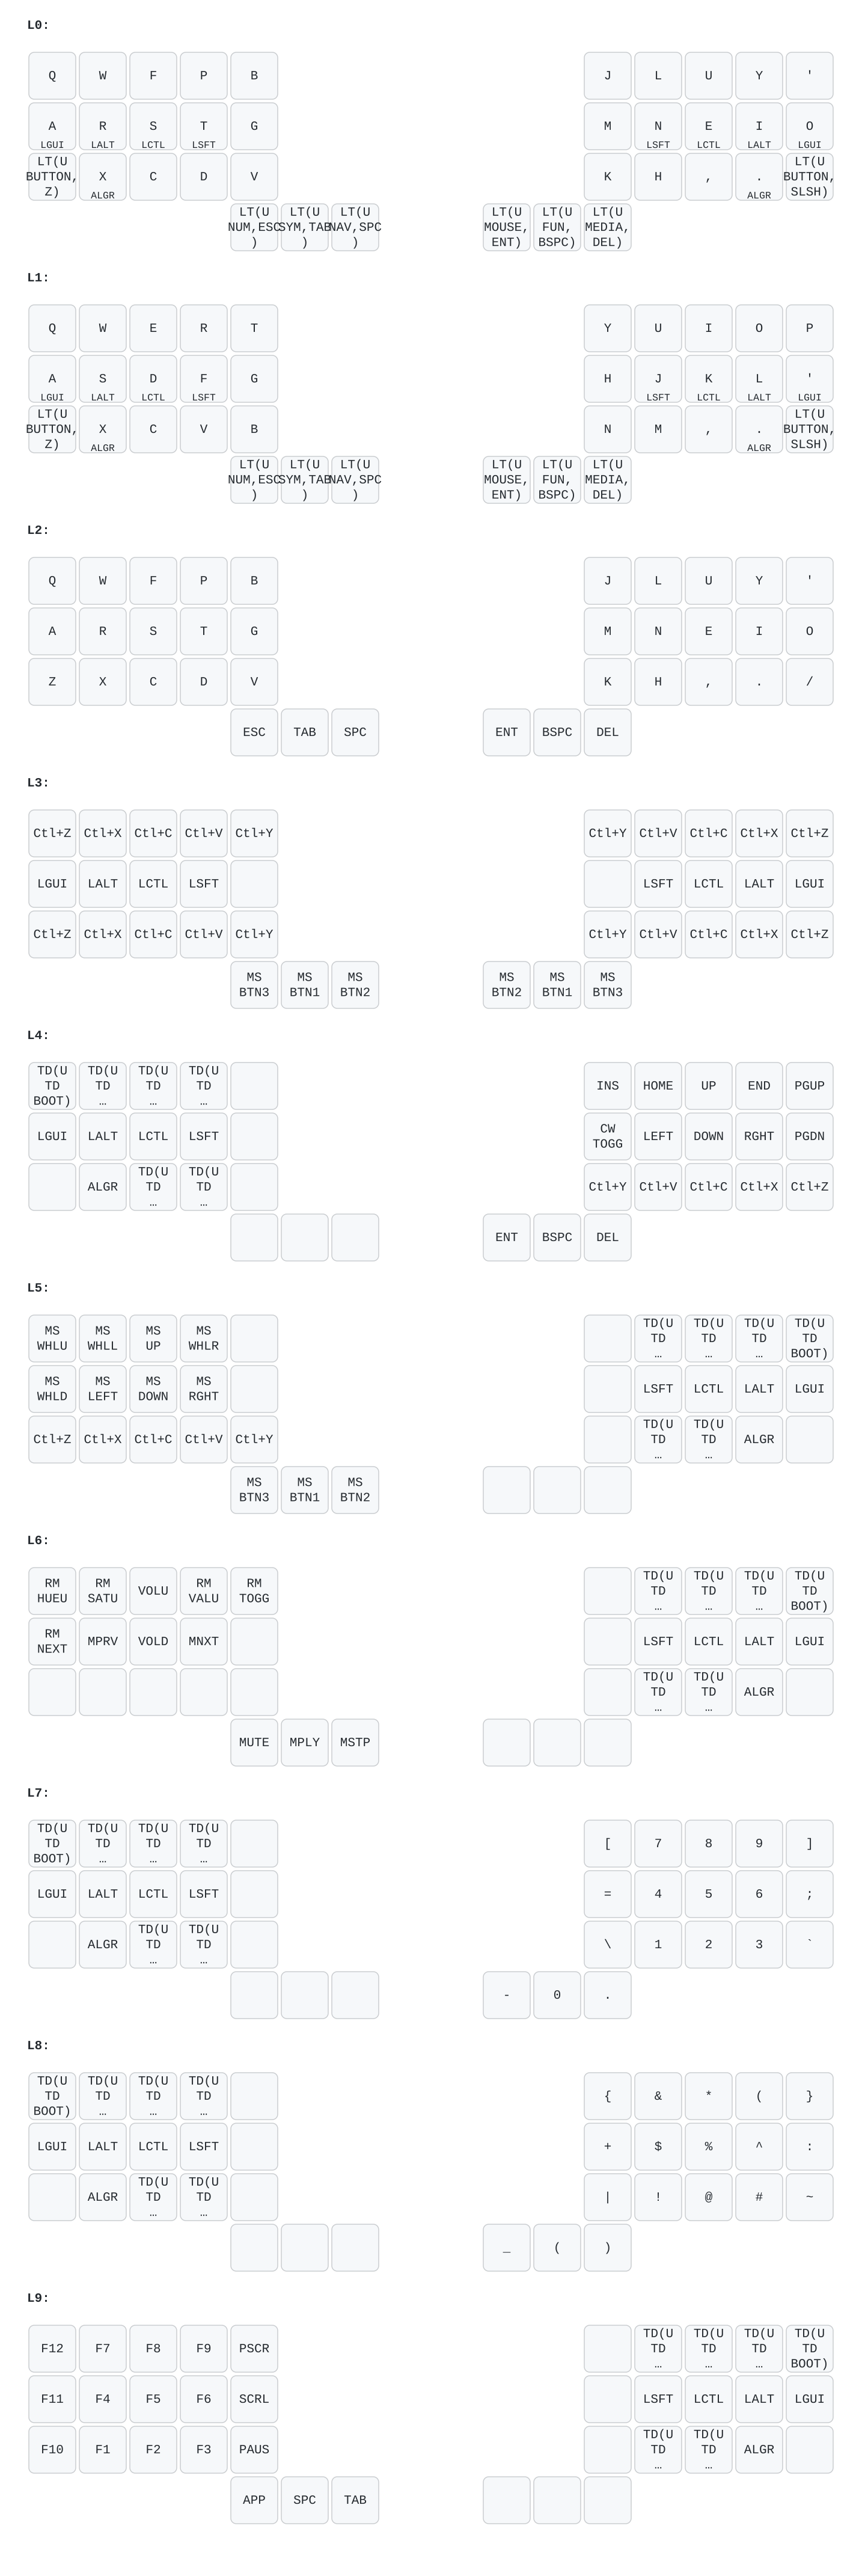
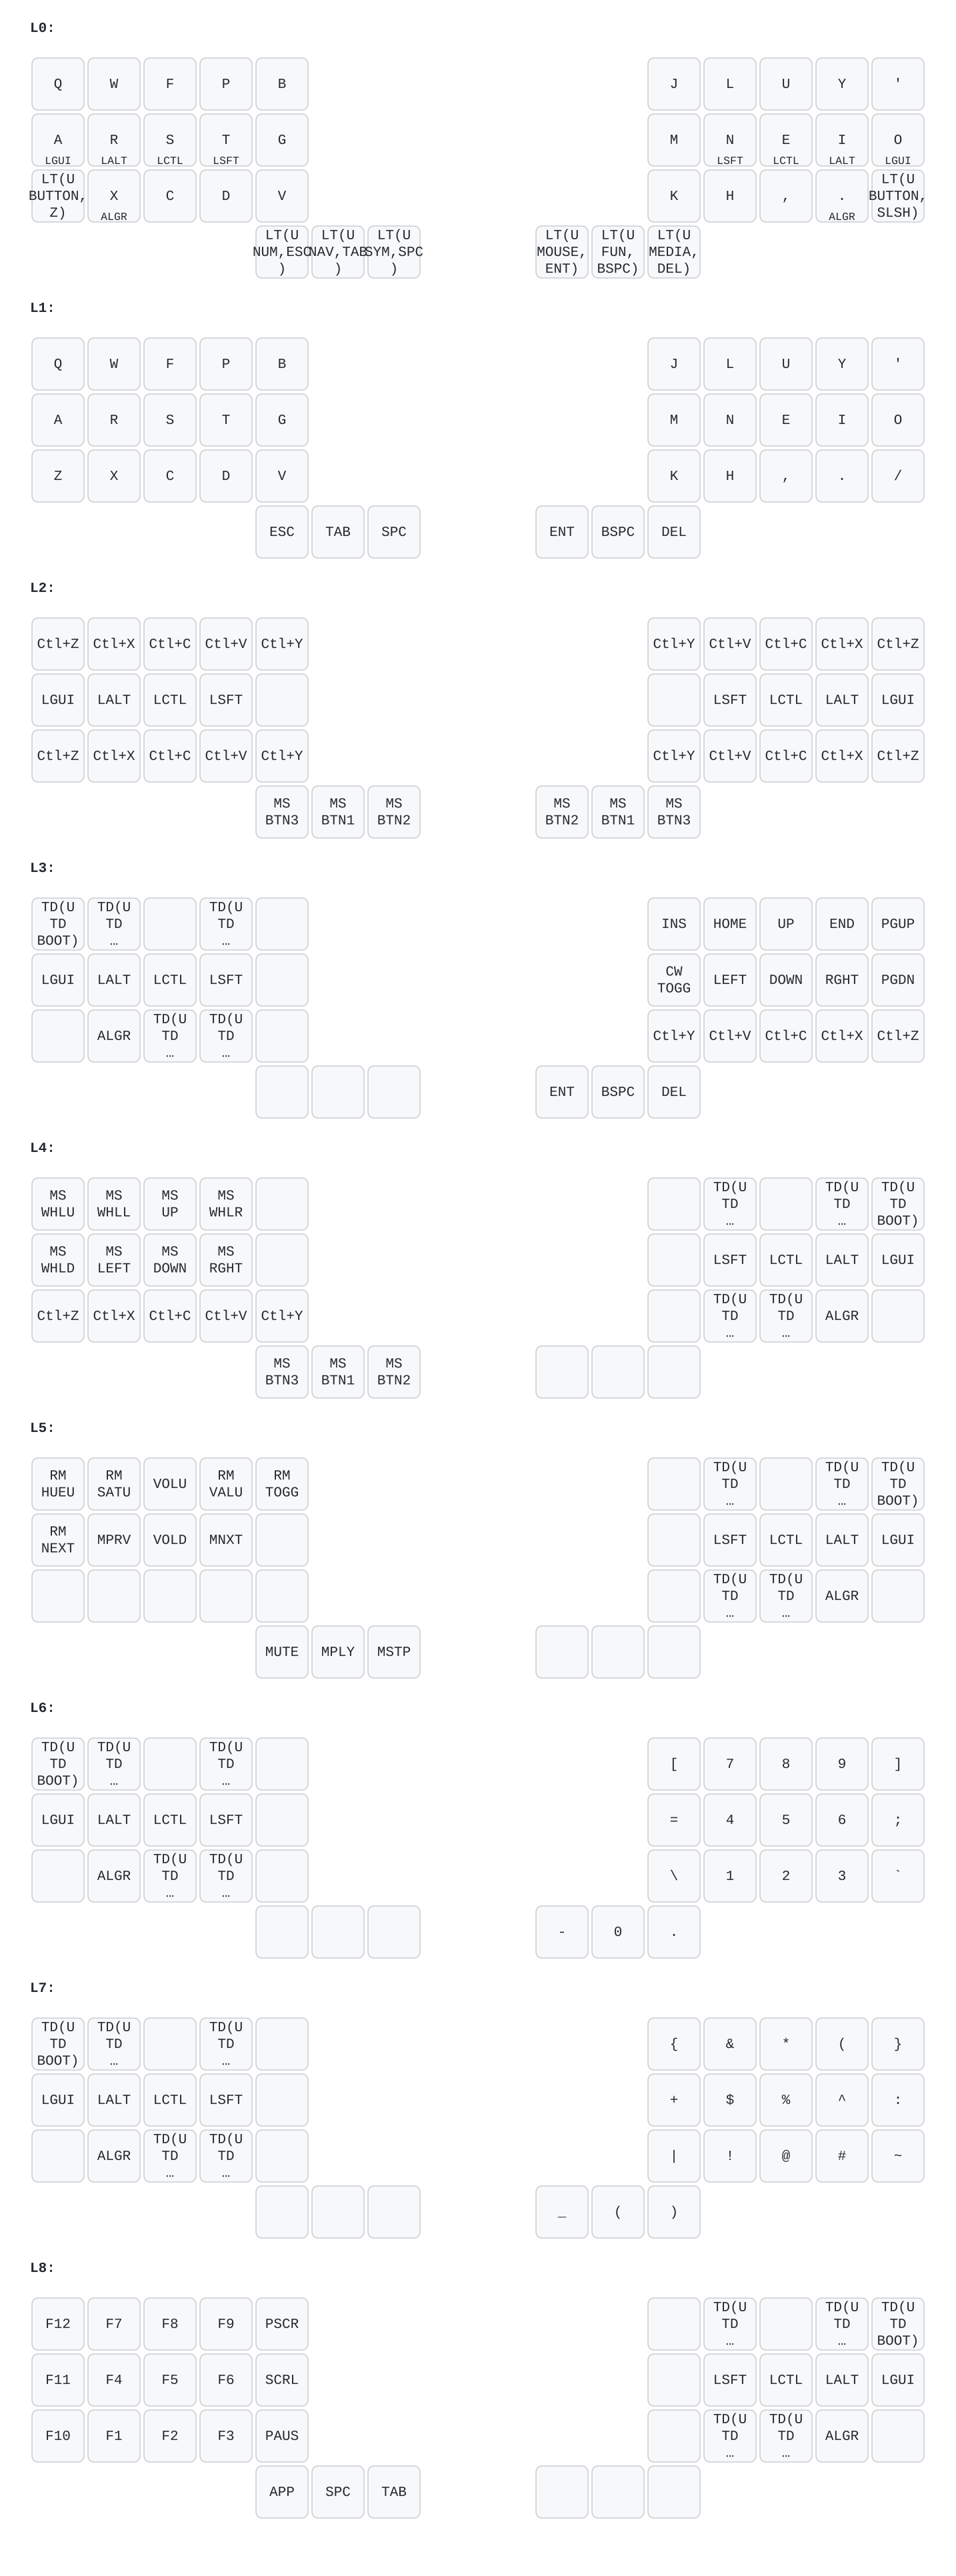
remove unused layer. tinkering with flowtap

diff --git a/keyboards/bastardkb/skeletyl/keymaps/barediver/keymap.c b/keyboards/bastardkb/skeletyl/keymaps/barediver/keymap.c
@@ -21,8 +21,7 @@
 
 enum miryoku_layers {
     U_BASE,
-    U_EXTRA,
-    U_TAP,
+    _TAP,
     U_BUTTON,
     U_NAV,
     U_MOUSE,
@@ -37,7 +36,6 @@ enum miryoku_layers {
 enum {
     U_TD_BOOT,
     U_TD_U_BASE,
-    U_TD_U_EXTRA,
     U_TD_U_TAP,
     U_TD_U_BUTTON,
     U_TD_U_NAV,
@@ -61,7 +59,6 @@ void u_td_fn_boot(tap_dance_state_t *state, void *user_data) {
         }                                                                   \
     }
 U_TD_LAYER(U_BASE)
-U_TD_LAYER(U_EXTRA)
 U_TD_LAYER(U_TAP)
 U_TD_LAYER(U_BUTTON)
 U_TD_LAYER(U_NAV)
@@ -74,7 +71,6 @@ U_TD_LAYER(U_FUN)
 tap_dance_action_t tap_dance_actions[] = {
     [U_TD_BOOT]      = ACTION_TAP_DANCE_FN(u_td_fn_boot),
     [U_TD_U_BASE]    = ACTION_TAP_DANCE_FN(u_td_fn_U_BASE),
-    [U_TD_U_EXTRA]   = ACTION_TAP_DANCE_FN(u_td_fn_U_EXTRA),
     [U_TD_U_TAP]     = ACTION_TAP_DANCE_FN(u_td_fn_U_TAP),
     [U_TD_U_BUTTON]  = ACTION_TAP_DANCE_FN(u_td_fn_U_BUTTON),
     [U_TD_U_NAV]     = ACTION_TAP_DANCE_FN(u_td_fn_U_NAV),
@@ -82,7 +78,7 @@ tap_dance_action_t tap_dance_actions[] = {
     [U_TD_U_MEDIA]   = ACTION_TAP_DANCE_FN(u_td_fn_U_MEDIA),
     [U_TD_U_NUM]     = ACTION_TAP_DANCE_FN(u_td_fn_U_NUM),
     [U_TD_U_SYM]     = ACTION_TAP_DANCE_FN(u_td_fn_U_SYM),
-    [U_TD_U_FUN]     = ACTION_TAP_DANCE_FN(u_td_fn_U_FUN),
+    [U_TD_U_FUN]     = ACTION_TAP_DANCE_FN(u_td_fn_U_FUN)
 };
 
 const uint16_t PROGMEM keymaps[][MATRIX_ROWS][MATRIX_COLS] = {
@@ -91,14 +87,7 @@ const uint16_t PROGMEM keymaps[][MATRIX_ROWS][MATRIX_COLS] = {
         KC_Q,              KC_W,         KC_F,         KC_P,             KC_B,              KC_J,              KC_L,              KC_U,            KC_Y,           KC_QUOT,
         LGUI_T(KC_A),      LALT_T(KC_R), LCTL_T(KC_S), LSFT_T(KC_T),     KC_G,              KC_M,              LSFT_T(KC_N),      LCTL_T(KC_E),    LALT_T(KC_I),   LGUI_T(KC_O),
         LT(U_BUTTON,KC_Z), ALGR_T(KC_X), KC_C,         KC_D,             KC_V,              KC_K,              KC_H,              KC_COMM,         ALGR_T(KC_DOT), LT(U_BUTTON,KC_SLSH),
-                                         LT(U_NUM,KC_ESC), LT(U_SYM,KC_TAB), LT(U_NAV,KC_SPC),  LT(U_MOUSE,KC_ENT), LT(U_FUN,KC_BSPC), LT(U_MEDIA,KC_DEL)
-    ),
-
-    [U_EXTRA] = LAYOUT_split_3x5_3(
-        KC_Q,              KC_W,         KC_E,         KC_R,             KC_T,              KC_Y,              KC_U,              KC_I,            KC_O,           KC_P,
-        LGUI_T(KC_A),      LALT_T(KC_S), LCTL_T(KC_D), LSFT_T(KC_F),     KC_G,              KC_H,              LSFT_T(KC_J),      LCTL_T(KC_K),    LALT_T(KC_L),   LGUI_T(KC_QUOT),
-        LT(U_BUTTON,KC_Z), ALGR_T(KC_X), KC_C,         KC_V,             KC_B,              KC_N,              KC_M,              KC_COMM,         ALGR_T(KC_DOT), LT(U_BUTTON,KC_SLSH),
-                                         LT(U_NUM,KC_ESC), LT(U_SYM,KC_TAB), LT(U_NAV,KC_SPC),  LT(U_MOUSE,KC_ENT), LT(U_FUN,KC_BSPC), LT(U_MEDIA,KC_DEL)
+                                         LT(U_NUM,KC_ESC), LT(U_NAV,KC_TAB), LT(U_SYM,KC_SPC),  LT(U_MOUSE,KC_ENT), LT(U_FUN,KC_BSPC), LT(U_MEDIA,KC_DEL)
     ),
 
     [U_TAP] = LAYOUT_split_3x5_3(
@@ -117,7 +106,7 @@ const uint16_t PROGMEM keymaps[][MATRIX_ROWS][MATRIX_COLS] = {
 
     // Nav: non-flip (held by left hand), inverted-T arrows on the right.
     [U_NAV] = LAYOUT_split_3x5_3(
-        TD(U_TD_BOOT), TD(U_TD_U_TAP), TD(U_TD_U_EXTRA), TD(U_TD_U_BASE), KC_NO,   KC_INS,  KC_HOME, KC_UP,   KC_END,  KC_PGUP,
+        TD(U_TD_BOOT), TD(U_TD_U_TAP), KC_NO, TD(U_TD_U_BASE), KC_NO,   KC_INS,  KC_HOME, KC_UP,   KC_END,  KC_PGUP,
         KC_LGUI,       KC_LALT,        KC_LCTL,          KC_LSFT,         KC_NO,   CW_TOGG, KC_LEFT, KC_DOWN, KC_RGHT, KC_PGDN,
         KC_NO,         KC_ALGR,        TD(U_TD_U_NUM),   TD(U_TD_U_NAV),  KC_NO,   C(KC_Y), C(KC_V), C(KC_C), C(KC_X), C(KC_Z),
                                        KC_NO,            KC_NO,           KC_NO,   KC_ENT,  KC_BSPC, KC_DEL
@@ -125,7 +114,7 @@ const uint16_t PROGMEM keymaps[][MATRIX_ROWS][MATRIX_COLS] = {
 
     // Mouse: flip (held by right hand).
     [U_MOUSE] = LAYOUT_split_3x5_3(
-        MS_WHLU, MS_WHLL, MS_UP, MS_WHLR, KC_NO,       KC_NO,   TD(U_TD_U_BASE),  TD(U_TD_U_EXTRA), TD(U_TD_U_TAP), TD(U_TD_BOOT),
+        MS_WHLU, MS_WHLL, MS_UP, MS_WHLR, KC_NO,       KC_NO,   TD(U_TD_U_BASE),  KC_NO, TD(U_TD_U_TAP), TD(U_TD_BOOT),
         MS_WHLD, MS_LEFT, MS_DOWN, MS_RGHT, KC_NO,       KC_NO,   KC_LSFT,          KC_LCTL,          KC_LALT,        KC_LGUI,
         C(KC_Z), C(KC_X), C(KC_C), C(KC_V), C(KC_Y),     KC_NO,   TD(U_TD_U_MOUSE), TD(U_TD_U_SYM),   KC_ALGR,        KC_NO,
                           MS_BTN3, MS_BTN1, MS_BTN2,     KC_NO,   KC_NO,            KC_NO
@@ -133,7 +122,7 @@ const uint16_t PROGMEM keymaps[][MATRIX_ROWS][MATRIX_COLS] = {
 
     // Media: flip (held by right hand). RGB controls mapped to RGB Matrix.
     [U_MEDIA] = LAYOUT_split_3x5_3(
-        RM_HUEU, RM_SATU, KC_VOLU, RM_VALU, RM_TOGG,     KC_NO,   TD(U_TD_U_BASE),  TD(U_TD_U_EXTRA), TD(U_TD_U_TAP), TD(U_TD_BOOT),
+        RM_HUEU, RM_SATU, KC_VOLU, RM_VALU, RM_TOGG,     KC_NO,   TD(U_TD_U_BASE),  KC_NO, TD(U_TD_U_TAP), TD(U_TD_BOOT),
         RM_NEXT, KC_MPRV, KC_VOLD, KC_MNXT, KC_NO,       KC_NO,   KC_LSFT,          KC_LCTL,          KC_LALT,        KC_LGUI,
         KC_NO,   KC_NO,   KC_NO,   KC_NO,   KC_NO,       KC_NO,   TD(U_TD_U_MEDIA), TD(U_TD_U_FUN),   KC_ALGR,        KC_NO,
                           KC_MUTE, KC_MPLY, KC_MSTP,     KC_NO,   KC_NO,            KC_NO
@@ -141,7 +130,7 @@ const uint16_t PROGMEM keymaps[][MATRIX_ROWS][MATRIX_COLS] = {
 
     // Num: flip (held by left hand).
     [U_NUM] = LAYOUT_split_3x5_3(
-        TD(U_TD_BOOT), TD(U_TD_U_TAP), TD(U_TD_U_EXTRA), TD(U_TD_U_BASE), KC_NO,   KC_LBRC, KC_7,    KC_8,    KC_9,    KC_RBRC,
+        TD(U_TD_BOOT), TD(U_TD_U_TAP), KC_NO, TD(U_TD_U_BASE), KC_NO,   KC_LBRC, KC_7,    KC_8,    KC_9,    KC_RBRC,
         KC_LGUI,       KC_LALT,        KC_LCTL,          KC_LSFT,         KC_NO,   KC_EQL,  KC_4,    KC_5,    KC_6,    KC_SCLN,
         KC_NO,         KC_ALGR,        TD(U_TD_U_NAV),   TD(U_TD_U_NUM),  KC_NO,   KC_BSLS, KC_1,    KC_2,    KC_3,    KC_GRV,
                                        KC_NO,            KC_NO,           KC_NO,   KC_MINS, KC_0,    KC_DOT
@@ -149,7 +138,7 @@ const uint16_t PROGMEM keymaps[][MATRIX_ROWS][MATRIX_COLS] = {
 
     // Sym: flip (held by left hand).
     [U_SYM] = LAYOUT_split_3x5_3(
-        TD(U_TD_BOOT), TD(U_TD_U_TAP), TD(U_TD_U_EXTRA), TD(U_TD_U_BASE), KC_NO,   KC_LCBR, KC_AMPR, KC_ASTR, KC_LPRN, KC_RCBR,
+        TD(U_TD_BOOT), TD(U_TD_U_TAP), KC_NO, TD(U_TD_U_BASE), KC_NO,   KC_LCBR, KC_AMPR, KC_ASTR, KC_LPRN, KC_RCBR,
         KC_LGUI,       KC_LALT,        KC_LCTL,          KC_LSFT,         KC_NO,   KC_PLUS, KC_DLR,  KC_PERC, KC_CIRC, KC_COLN,
         KC_NO,         KC_ALGR,        TD(U_TD_U_MOUSE), TD(U_TD_U_SYM),  KC_NO,   KC_PIPE, KC_EXLM, KC_AT,   KC_HASH, KC_TILD,
                                        KC_NO,            KC_NO,           KC_NO,   KC_UNDS, KC_LPRN, KC_RPRN
@@ -157,7 +146,7 @@ const uint16_t PROGMEM keymaps[][MATRIX_ROWS][MATRIX_COLS] = {
 
     // Fun: non-flip (held by right hand).
     [U_FUN] = LAYOUT_split_3x5_3(
-        KC_F12, KC_F7, KC_F8, KC_F9, KC_PSCR,            KC_NO,   TD(U_TD_U_BASE),  TD(U_TD_U_EXTRA), TD(U_TD_U_TAP), TD(U_TD_BOOT),
+        KC_F12, KC_F7, KC_F8, KC_F9, KC_PSCR,            KC_NO,   TD(U_TD_U_BASE),  KC_NO, TD(U_TD_U_TAP), TD(U_TD_BOOT),
         KC_F11, KC_F4, KC_F5, KC_F6, KC_SCRL,            KC_NO,   KC_LSFT,          KC_LCTL,          KC_LALT,        KC_LGUI,
         KC_F10, KC_F1, KC_F2, KC_F3, KC_PAUS,            KC_NO,   TD(U_TD_U_FUN),   TD(U_TD_U_MEDIA), KC_ALGR,        KC_NO,
                        KC_APP, KC_SPC, KC_TAB,           KC_NO,   KC_NO,            KC_NO
@@ -187,3 +176,18 @@ bool get_chordal_hold(uint16_t tap_hold_keycode, keyrecord_t *tap_hold_record,
     }
     return get_chordal_hold_default(tap_hold_record, other_record);
 }
+
+// Flow Tap settles any tap-hold pressed within FLOW_TAP_TERM of the previous key
+// as a tap. That's right for home-row mods (no stray mods during fast alpha
+// rolls) but wrong for the thumb layer-taps: reaching for a symbol immediately
+// after a letter lands the layer key inside the flow window, forcing it to tap,
+// so the layer never engages and the symbol falls through to the base layer
+// (e.g. "!" comes out as "h"). Disable Flow Tap for layer-taps so layers fire
+// instantly; keep it for mod-taps.
+uint16_t get_flow_tap_term(uint16_t keycode, keyrecord_t *record,
+                           uint16_t prev_keycode) {
+    if (IS_QK_LAYER_TAP(keycode)) {
+        return 0;
+    }
+    return FLOW_TAP_TERM;
+

diff --git a/keyboards/bastardkb/skeletyl/keymaps/barediver/config.h b/keyboards/bastardkb/skeletyl/keymaps/barediver/config.h
@@ -20,7 +20,9 @@
 //   the re-allowed same-hand chords resolve as holds while fast rolls stay taps.
 //   (Intentionally NOT HOLD_ON_OTHER_KEY_PRESS, which would hold "a" mid-"are".)
 // FLOW_TAP_TERM: while typing fast, settle tap-holds pressed within this window
-//   of the previous key as taps.
+//   of the previous key as taps. Applies to mod-taps only — layer-taps are
+//   exempted via get_flow_tap_term() in keymap.c so thumb layers fire instantly
+//   even mid-flow (otherwise e.g. "!" misfires as "h").
 #define CHORDAL_HOLD
 #define PERMISSIVE_HOLD
 #define FLOW_TAP_TERM 150